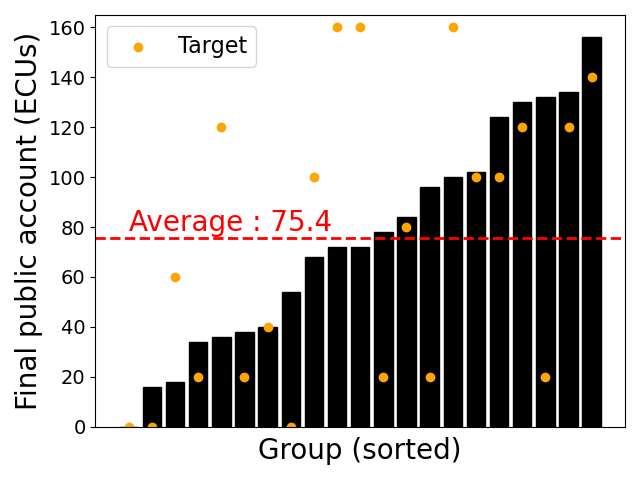
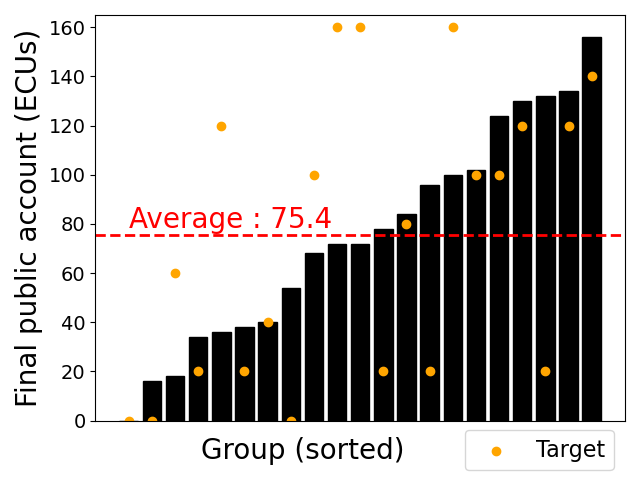
9/4軽微な修正

diff --git a/getdata.py b/getdata.py
@@ -541,15 +541,13 @@ class GraphPlot:
         ax.axhline(y=contrib_average, color="red", linestyle="--", linewidth=2)
         if bartype == "white":
             ax.text(5, contrib_average+3, f"Average : {contrib_average:.1f}", color="red", fontsize=20)
-            # 枠内に収める
-            ax.legend(fontsize=16, loc="lower left", bbox_to_anchor=(0, 0.1))
-            # 枠外案
-            # ax.legend(fontsize=16, loc="lower right", bbox_to_anchor=(1, -0.15))
-            # ax.set_xlabel("Group (sorted)", fontsize=20, ha="left", x=0.2, labelpad=8)
         else:
             ax.text(0, contrib_average+3, f"Average : {contrib_average:.1f}", color="red", fontsize=20)
-            ax.legend(fontsize=16, loc="upper left")
-            ax.set_xlabel("Group (sorted)", fontsize=20)
+        # 枠内に収める
+        # ax.legend(fontsize=16, loc="lower left", bbox_to_anchor=(0, 0.1))
+        # 枠外案
+        ax.legend(fontsize=16, loc="lower right", bbox_to_anchor=(1, -0.15))
+        ax.set_xlabel("Group (sorted)", fontsize=20, ha="left", x=0.2, labelpad=8)
         ax.set_ylabel("Final public account (ECUs)", fontsize=20)
         ax.tick_params(axis="x", length=0)
         ax.tick_params(axis="y", labelsize=14)
